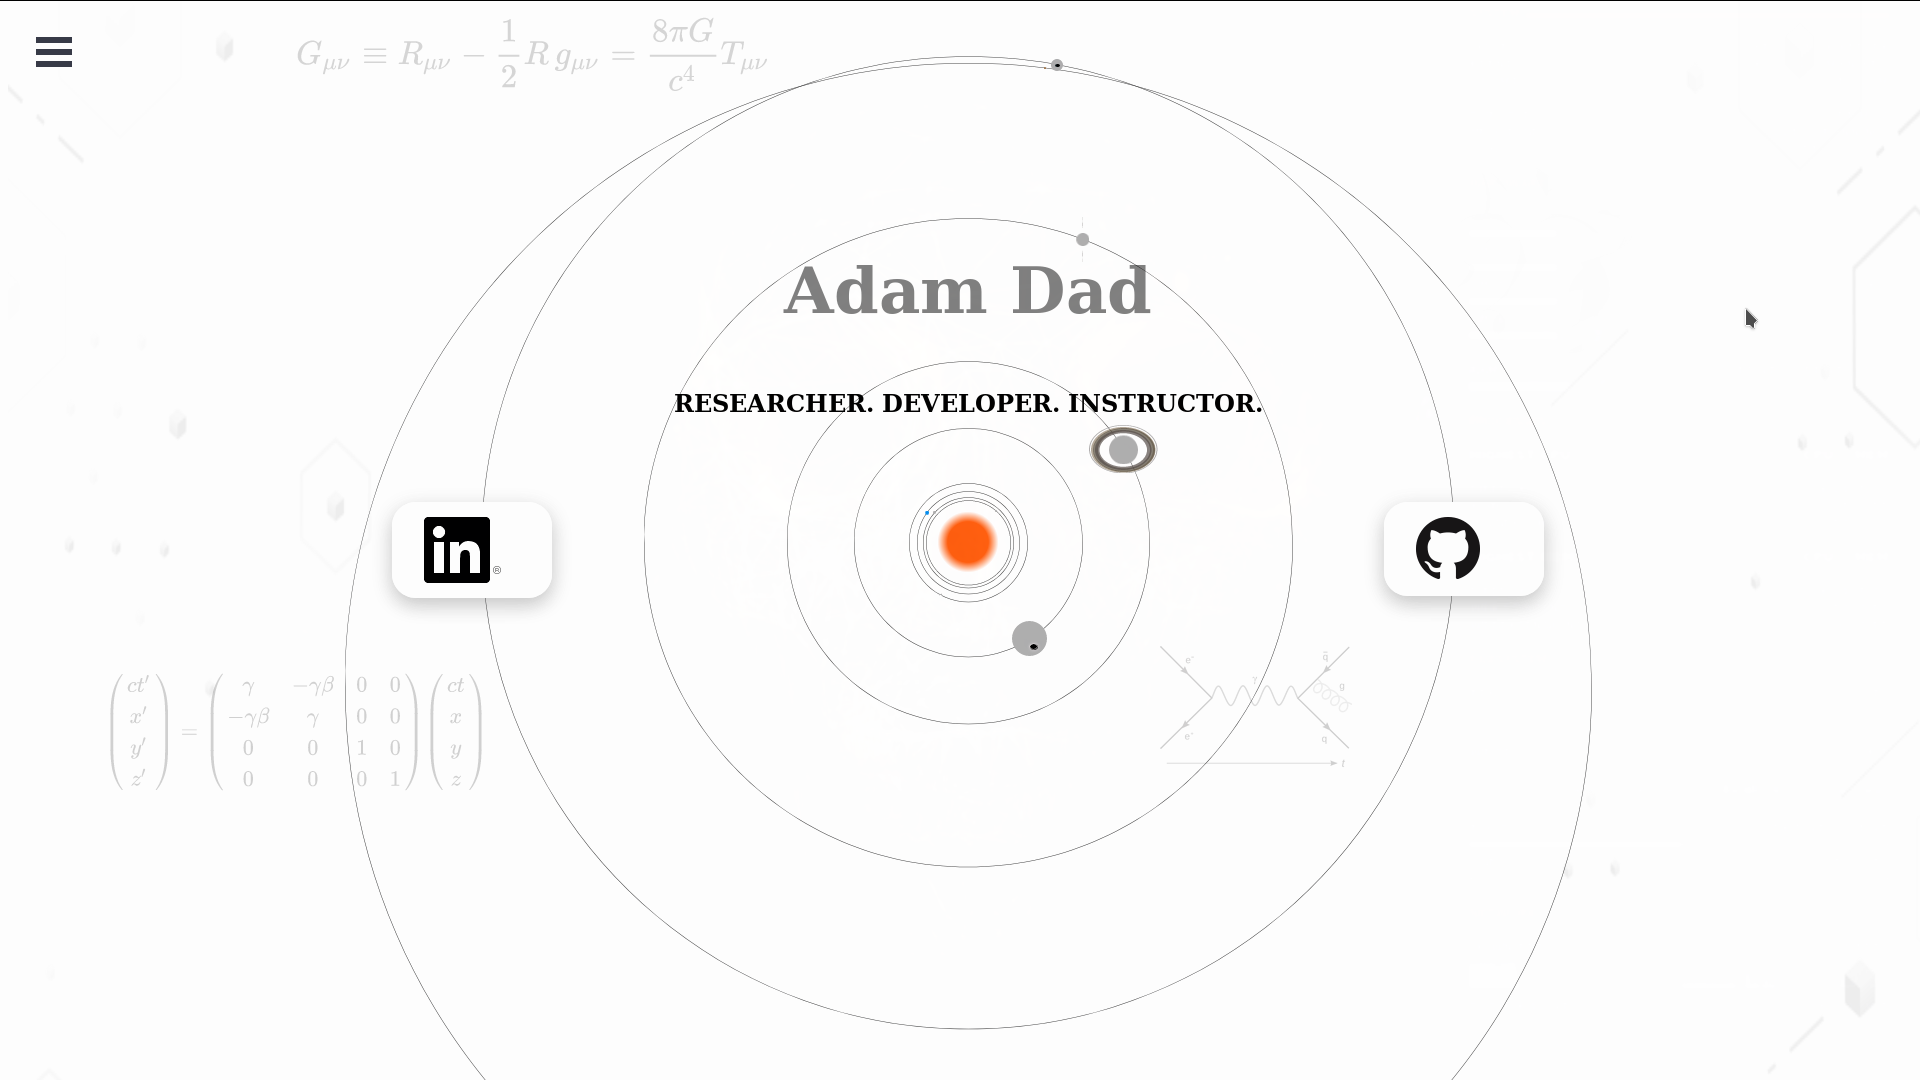
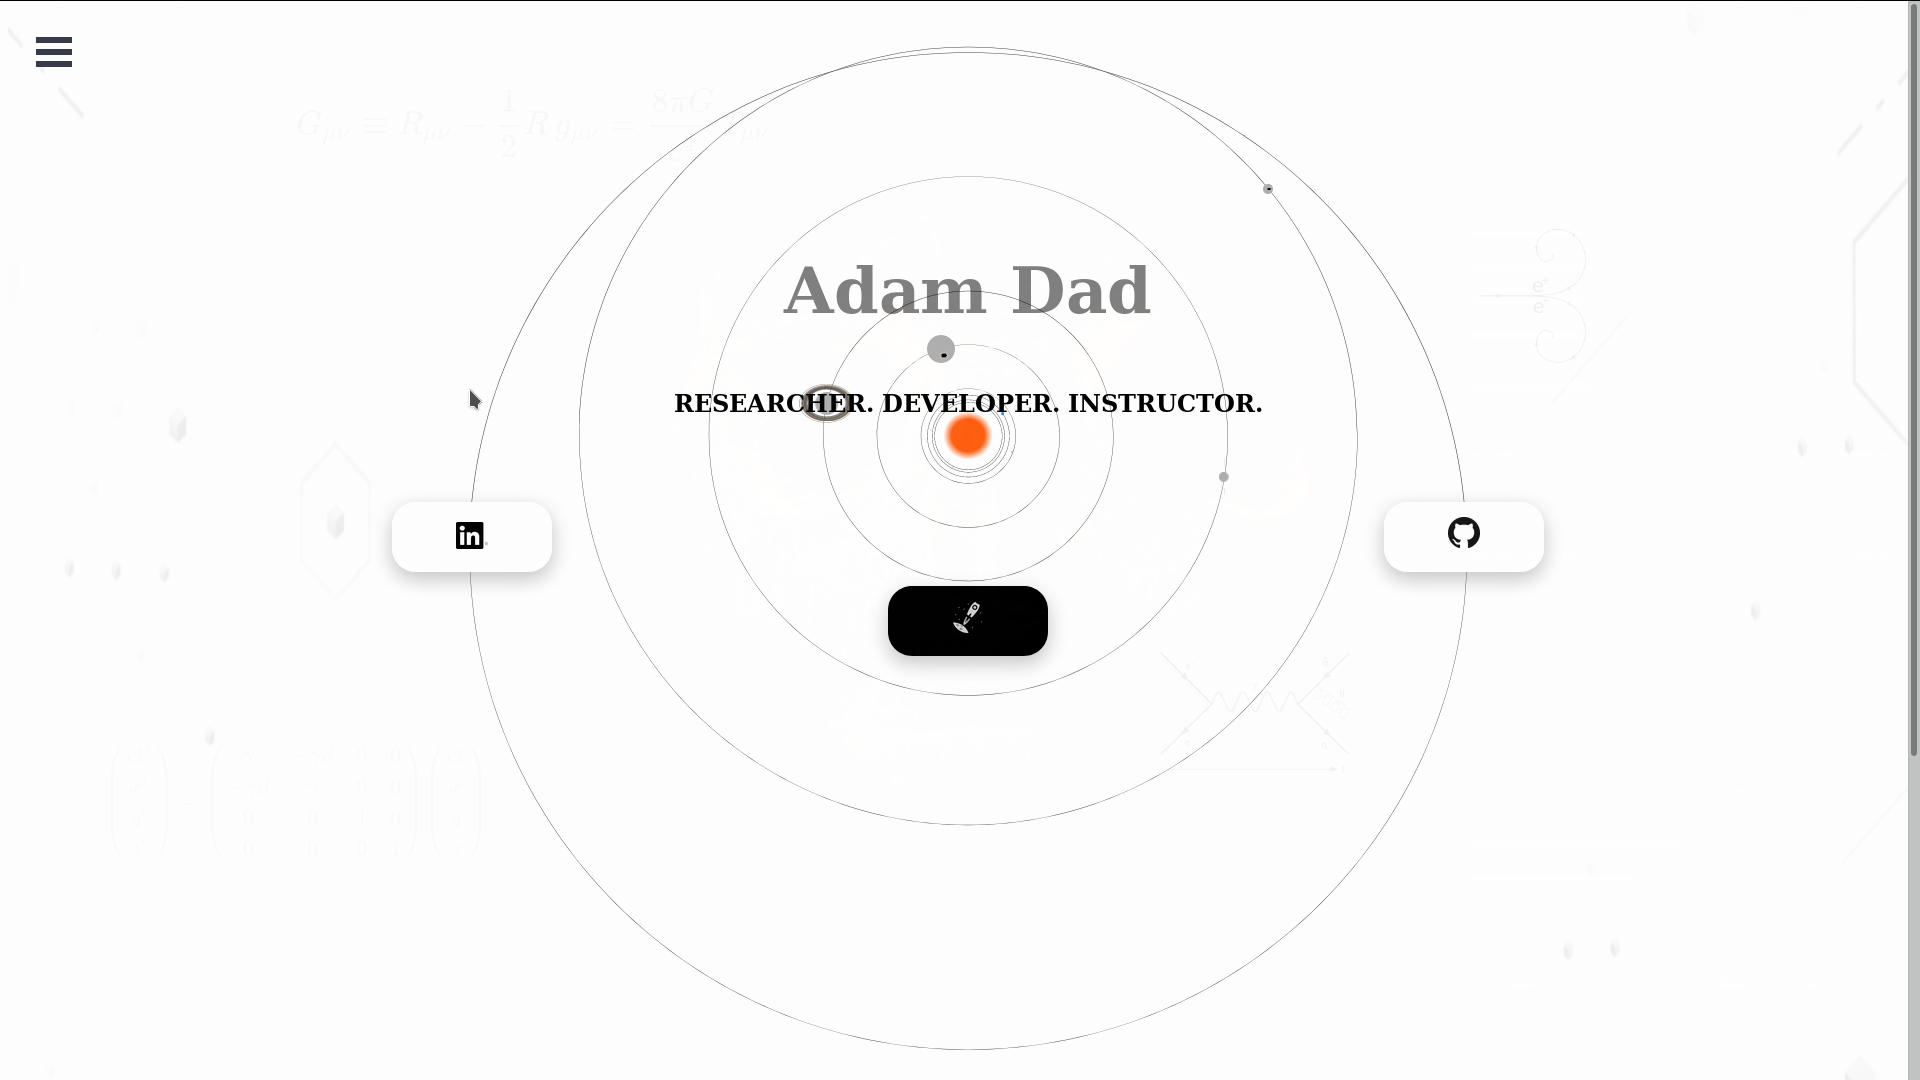
mobile optimisation

diff --git a/src/components/SolarSystem.vue b/src/components/SolarSystem.vue
@@ -40,7 +40,7 @@ body {
   overflow-x:hidden;
   background-image: #ffffff; /* radial-gradient(ellipse at bottom, #1b2735 0%, #090a0f 100%); */
   background-size: cover;
-  min-height: 100vw;
+  max-height: 100vw;
   min-width: 100vw;
 }
 
@@ -48,10 +48,10 @@ body {
   position: absolute;
   top: 0;
   left: 0;
-  width: auto;
+  width: screen.width;
   height: 100%;
-  -webkit-transform: scale(0.5);
-  transform: scale(0.5);
+  -webkit-transform: scale(0.4);
+  transform: scale(0.4);
 }
 
 .sun {

diff --git a/src/App.vue b/src/App.vue
@@ -62,4 +62,17 @@ export default {
   -moz-transition: opacity 5s ease;
   opacity: 0;
 }
+@viewport {
+    width: device-width;
+    initial-scale: 1;
+    zoom: 1;
+    min-zoom: 1;
+    max-zoom: 3;
+    user-zoom: fixed;
+}
+@media screen and (max-width:400px) {
+    @-ms-viewport{
+        width:320px;
+    }
+}
 </style>
